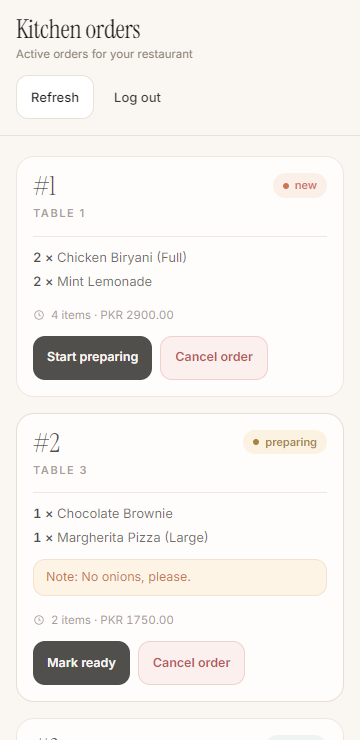
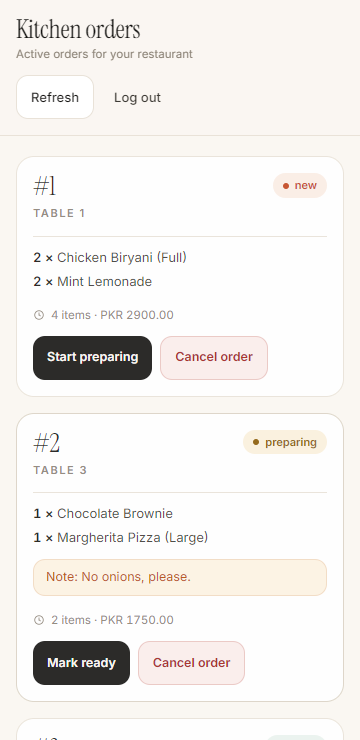
chore(dev): add npm run db:local for low-memory machines (D-81)

diff --git a/quickmenu-qr-build-kit/quickmenu-qr-build-kit/DECISIONS.md b/quickmenu-qr-build-kit/quickmenu-qr-build-kit/DECISIONS.md
@@ -124,3 +124,10 @@ Record every choice that the documents leave open, and every deviation from them
 | D-79 | The default Tailwind utility palette and demo tiles made the product look like a scaffold, and the objective is a convincing ordering app. | A warm editorial system: cream canvas, ink text, persimmon accent, hairline borders, Instrument Serif display + Inter body, tabular numerals, a dark kitchen canvas, and shared primitives in components/ui.ts. | One vocabulary for every screen (customer, kitchen, dashboard, auth); the type pairing and restrained accent read as a designed restaurant product rather than a generated template. |
 | D-80 | The seed pointed at fictitious Cloudinary URLs, so a fresh local install showed empty menu tiles; AI image generation was unavailable in this environment. | Twelve openly licensed Wikimedia Commons photos ship in apps/web/public/demo/, square-cropped to 1000x1000 and credited in ATTRIBUTION.md; the seed stores /demo/<slug>.jpg and scripts/fetch-demo-images.mjs can reproduce them. | Real food photography makes the menu credible offline and keeps licensing explicit; Cloudinary stays the production media host, so no production behaviour changes. |
 
+### 2026-11-15 - Local dev database without Docker
+
+| # | Problem | Decision | Reason |
+|---|---|---|---|
+| D-81 | Docker Desktop reserves several gigabytes, and on a 8 GB laptop it was killed during dev, taking PostgreSQL and the running servers with it; the phone could not reach the menu. | Add an optional `npm run db:local` script (scripts/dev-db.mjs) that runs PostgreSQL 18 from node_modules via embedded-postgres, on localhost:5432 with the same quickmenu credentials and a persisted .pgdata directory. Docker Compose stays the documented default; CI is unchanged. | The dev database now costs about 60 MB instead of a multi-gigabyte VM, so it survives alongside Next.js and the API; a fresh clone still uses `docker compose up -d` with no extra steps. |
+
+

diff --git a/quickmenu-qr-build-kit/quickmenu-qr-build-kit/README.md b/quickmenu-qr-build-kit/quickmenu-qr-build-kit/README.md
@@ -69,6 +69,18 @@ Open `http://localhost:3000` for the entry page, or log in directly:
 The seed prints a table QR token. Open `http://localhost:3000/m/<qrToken>` on a
 phone-sized viewport to use the customer app.
 
+If Docker Desktop does not fit in the machine's memory, or it keeps getting
+killed while the dev servers run, start the same PostgreSQL without Docker:
+
+```sh
+npm run db:local   # starts PostgreSQL 18 from node_modules, data in .pgdata/
+```
+
+Run it in its own terminal and use `npm run db:migrate` / `npm run db:seed` /
+`npm run dev` in the others. It listens on the same `localhost:5432` with the
+same `quickmenu` / `quickmenu` credentials, so nothing else changes; Compose
+remains the default path and CI still uses it.
+
 ## Scripts
 
 | Script | What it does |
@@ -80,6 +92,7 @@ phone-sized viewport to use the customer app.
 | `npm run db:migrate` | Apply all migrations in order (idempotent) |
 | `npm run db:reset` | Drop all public tables and re-apply migrations |
 | `npm run db:seed` | Populate the demo restaurant (idempotent) |
+| `npm run db:local` | Run PostgreSQL from node_modules instead of Docker |
 | `npm run lint` | ESLint across all packages |
 | `npm run typecheck` | `tsc --noEmit` across all packages |
 | `npm test` | API + shared + web unit tests |
